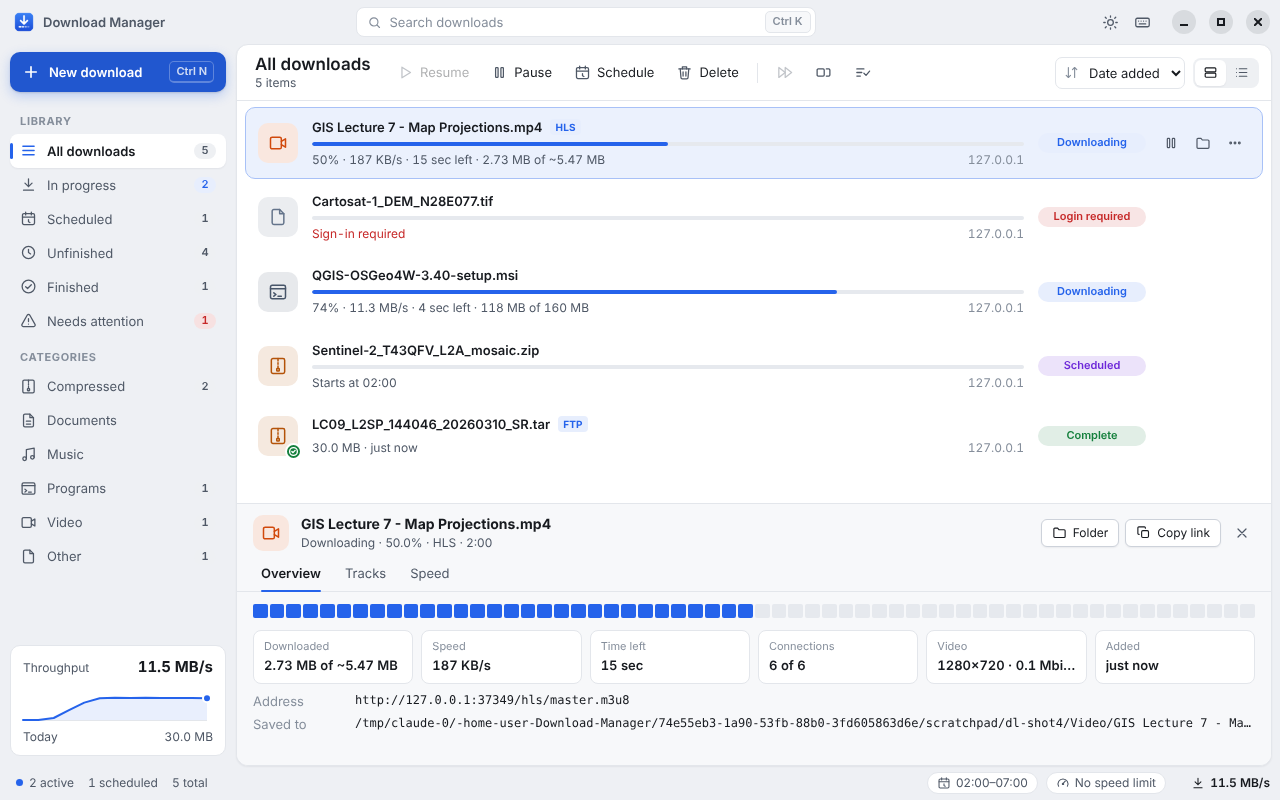
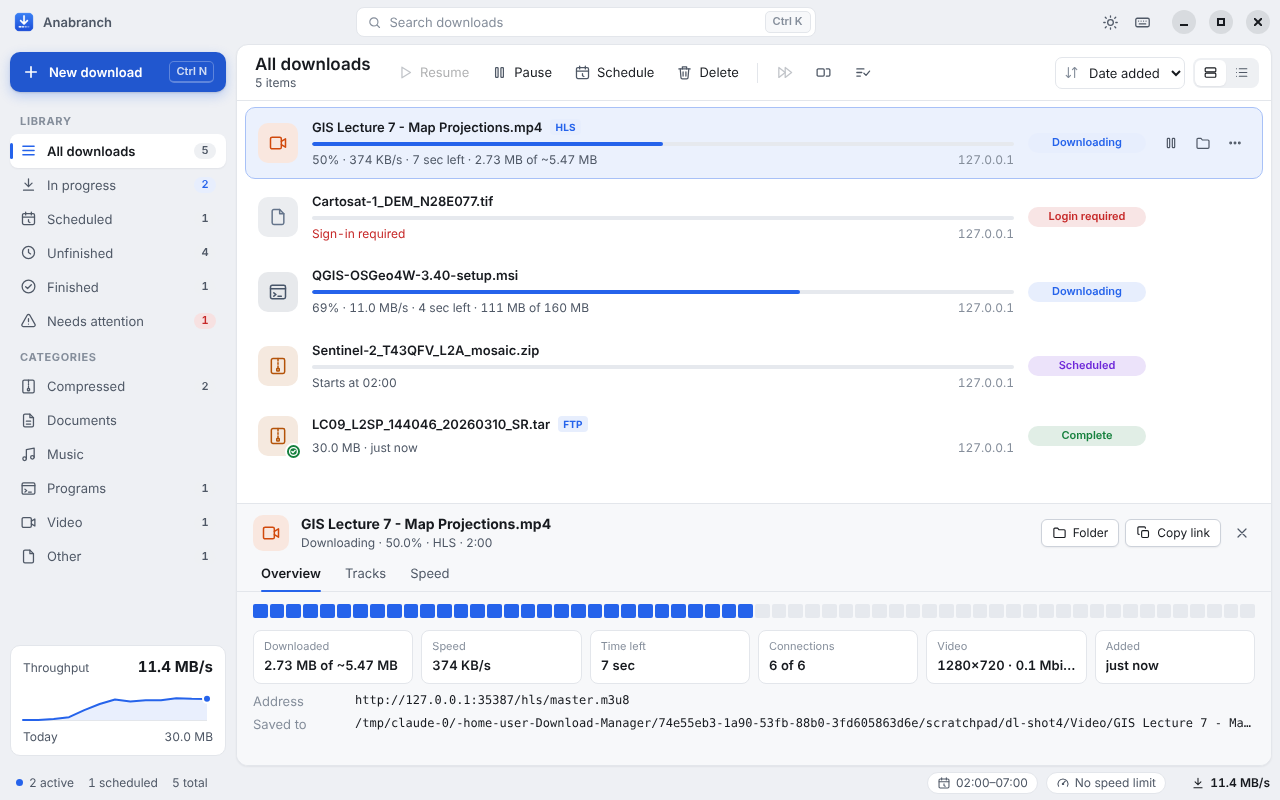
Rename the app to Anabranch
An anabranch is a river channel that leaves the main stream and rejoins
it downstream, which is how the app splits a file across parallel
connections and joins them back into one file.

Display name, window and tray titles, installer artifacts
(Anabranch-Setup / Anabranch-Portable), app ID online.draran.anabranch,
data folder %APPDATA%\Anabranch, MCP server name and bundle
(anabranch-mcp.cjs), the API's ping identity, the browser extension
("Anabranch Browser Connector", add-on ID anabranch@draran.online) and
the CI artifact names. The npm package is private and named
anabranch-download-manager, since an unrelated npm library already uses
"anabranch". README screenshots retaken.

Claude-Session: https://claude.ai/code/session_01CrKxSgUz2TJXLsjafkgDWd

diff --git a/electron/main.js b/electron/main.js
@@ -39,7 +39,7 @@ const ICON = path.join(__dirname, '..', 'build', 'icon.png');
 // Height of the custom title bar; the native window buttons are drawn over it.
 const TITLEBAR_HEIGHT = 44;
 
-// URLs passed on the command line, e.g. `"Download Manager.exe" https://...`.
+// URLs passed on the command line, e.g. `"Anabranch.exe" https://...`.
 const urlArgs = (argv) => argv.filter((a) => /^(https?|ftps?):\/\//i.test(a));
 const userFile = (name) => path.join(app.getPath('userData'), name);
 const hashToken = (token) => crypto.createHash('sha256').update(token).digest('hex');
@@ -226,7 +226,7 @@ function createWindow() {
     height: 760,
     minWidth: 860,
     minHeight: 520,
-    title: 'Download Manager',
+    title: 'Anabranch',
     backgroundColor: titleBarColours(dark).color,
     icon: ICON,
     titleBarStyle: 'hidden',
@@ -270,11 +270,11 @@ function createWindow() {
 function createTray() {
   const size = process.platform === 'win32' ? 16 : 22;
   tray = new Tray(nativeImage.createFromPath(ICON).resize({ width: size, height: size }));
-  tray.setToolTip('Download Manager');
+  tray.setToolTip('Anabranch');
   tray.on('click', showWindow);
   tray.setContextMenu(
     Menu.buildFromTemplate([
-      { label: 'Open Download Manager', click: showWindow },
+      { label: 'Open Anabranch', click: showWindow },
       {
         label: 'Add link from clipboard',
         click: async () => {
@@ -301,7 +301,7 @@ function updateTaskbar() {
   const speed = active.reduce((sum, d) => sum + (d.speed || 0), 0);
   if (!active.length) {
     mainWindow.setProgressBar(-1);
-    tray?.setToolTip('Download Manager');
+    tray?.setToolTip('Anabranch');
     return;
   }
   const known = active.filter((d) => d.totalBytes);
@@ -310,7 +310,7 @@ function updateTaskbar() {
   if (total) mainWindow.setProgressBar(done / total);
   else mainWindow.setProgressBar(2, { mode: 'indeterminate' });
   const mb = (speed / 1048576).toFixed(1);
-  tray?.setToolTip(`Download Manager — ${active.length} active, ${mb} MB/s`);
+  tray?.setToolTip(`Anabranch — ${active.length} active, ${mb} MB/s`);
 }
 
 function send(channel, payload) {
@@ -408,8 +408,8 @@ function registerIpc() {
     ...apiInfo,
     url: apiInfo.port ? `http://127.0.0.1:${apiInfo.port}` : null,
     mcpScript: app.isPackaged
-      ? path.join(process.resourcesPath, 'mcp', 'download-manager-mcp.cjs')
-      : path.join(__dirname, '..', 'dist-mcp', 'download-manager-mcp.cjs'),
+      ? path.join(process.resourcesPath, 'mcp', 'anabranch-mcp.cjs')
+      : path.join(__dirname, '..', 'dist-mcp', 'anabranch-mcp.cjs'),
     executable: process.execPath,
   }));
 }

diff --git a/browser-extension/background.js b/browser-extension/background.js
@@ -1,8 +1,8 @@
-// Download Manager browser integration (Chrome, Edge, Firefox).
+// Anabranch browser integration (Chrome, Edge, Firefox).
 //
 // - Hands file downloads over to the desktop app (with cookies and referrer,
 //   so links that need a browser session still work).
-// - Adds "Download with Download Manager" and "Download all links" menus.
+// - Adds "Download with Anabranch" and "Download all links" menus.
 // - Detects HLS/DASH streams and video files a page loads and lists them in
 //   the toolbar panel.
 //
@@ -63,7 +63,7 @@ async function findApp() {
   for (const port of ports) {
     try {
       const info = await call('/api/ping', { port, timeout: 800 });
-      if (info.app === 'download-manager') {
+      if (info.app === 'anabranch') {
         if (port !== s.port) await ext.storage.local.set({ port });
         return { port, authorised: info.authorised };
       }
@@ -91,7 +91,7 @@ function browserName() {
 // Asks the app for a token; the user approves the request in the app window.
 async function pair() {
   const app = await findApp();
-  if (!app) throw new Error('Download Manager is not running.');
+  if (!app) throw new Error('Anabranch is not running.');
   const { token } = await call('/api/pair', {
     method: 'POST',
     body: { browser: browserName() },
@@ -123,7 +123,7 @@ async function buildItem({ url, referrer, fileName, kind, storeId }) {
 
 async function sendItems(items, { prompt } = {}) {
   const s = await getSettings();
-  if (!s.token) throw new Error('Not connected to Download Manager');
+  if (!s.token) throw new Error('Not connected to Anabranch');
   try {
     if (prompt ?? s.confirm) return await call('/api/prompt', { method: 'POST', body: { items } });
     for (const item of items) await call('/api/downloads', { method: 'POST', body: item });
@@ -222,10 +222,10 @@ async function createMenus() {
   await Promise.resolve(ext.contextMenus.removeAll());
   ext.contextMenus.create({
     id: 'dm-link',
-    title: 'Download with Download Manager',
+    title: 'Download with Anabranch',
     contexts: ['link', 'image', 'video', 'audio'],
   });
-  ext.contextMenus.create({ id: 'dm-all', title: 'Download all links with Download Manager…', contexts: ['page'] });
+  ext.contextMenus.create({ id: 'dm-all', title: 'Download all links with Anabranch…', contexts: ['page'] });
 }
 ext.runtime.onInstalled.addListener(createMenus);
 ext.runtime.onStartup?.addListener(createMenus);

diff --git a/browser-extension/popup.html b/browser-extension/popup.html
@@ -2,25 +2,25 @@
 <html lang="en">
   <head>
     <meta charset="UTF-8" />
-    <title>Download Manager</title>
+    <title>Anabranch</title>
     <link rel="stylesheet" href="popup.css" />
   </head>
   <body>
     <header>
       <img src="icons/icon-32.png" alt="" width="20" height="20" />
-      <h1>Download Manager</h1>
+      <h1>Anabranch</h1>
       <span id="status" class="status">…</span>
     </header>
 
     <section id="offline" hidden>
-      <p>Download Manager is not running. Start the app, then open this panel again.</p>
+      <p>Anabranch is not running. Start the app, then open this panel again.</p>
       <button type="button" id="retry">Check again</button>
     </section>
 
     <section id="unpaired" hidden>
-      <p>Connect this browser to Download Manager. The app asks you to approve the connection.</p>
+      <p>Connect this browser to Anabranch. The app asks you to approve the connection.</p>
       <button type="button" id="pair" class="primary">Connect</button>
-      <p id="pair-note" class="muted" hidden>Waiting for approval in the Download Manager window…</p>
+      <p id="pair-note" class="muted" hidden>Waiting for approval in the Anabranch window…</p>
     </section>
 
     <section id="connected" hidden>
@@ -30,7 +30,7 @@
 
       <details>
         <summary>Settings</summary>
-        <label class="check"><input type="checkbox" id="capture" /> Send downloads of these file types to Download Manager</label>
+        <label class="check"><input type="checkbox" id="capture" /> Send downloads of these file types to Anabranch</label>
         <label class="check"><input type="checkbox" id="confirm" /> Confirm each download in the app first</label>
         <label>File types<textarea id="types" rows="4" spellcheck="false"></textarea></label>
         <label>Minimum size (KB)<input type="number" id="minSizeKB" min="0" /></label>

diff --git a/src/mockApi.js b/src/mockApi.js
@@ -232,7 +232,7 @@ export function createMockApi() {
     setTitleBar: async () => {},
     checkFfmpeg: async () => ({ path: 'ffmpeg', version: 'ffmpeg version 7.1 (preview)' }),
     openExtensionFolder: async () => {},
-    extensionFolder: async (browser) => `C:\\Program Files\\Download Manager\\resources\\browser-extension\\${browser}`,
+    extensionFolder: async (browser) => `C:\\Program Files\\Anabranch\\resources\\browser-extension\\${browser}`,
     chooseFile: async () => 'C:\\ffmpeg\\bin\\ffmpeg.exe',
     removeCompleted: async () => {
       for (let i = downloads.length - 1; i >= 0; i--) if (downloads[i].status === 'completed') downloads.splice(i, 1);
@@ -253,8 +253,8 @@ export function createMockApi() {
       port: 6801,
       token: '3f9c1e0a7b5d42c88e61f0d2a9b7c4e1d5f6a8b9c0d1e2f3',
       url: 'http://127.0.0.1:6801',
-      mcpScript: 'C:\\Program Files\\Download Manager\\resources\\mcp\\download-manager-mcp.cjs',
-      executable: 'C:\\Program Files\\Download Manager\\Download Manager.exe',
+      mcpScript: 'C:\\Program Files\\Anabranch\\resources\\mcp\\anabranch-mcp.cjs',
+      executable: 'C:\\Program Files\\Anabranch\\Anabranch.exe',
     }),
     onUpdate: (fn) => (listeners.update.add(fn), () => listeners.update.delete(fn)),
     onSettings: (fn) => (listeners.settings.add(fn), () => listeners.settings.delete(fn)),

diff --git a/src/components/SettingsDialog.jsx b/src/components/SettingsDialog.jsx
@@ -136,7 +136,7 @@ function BrowserTab() {
   return (
     <div className="tab-panel">
       <p>
-        The browser extension sends downloads, links (right-click → <em>Download with Download Manager</em>) and video
+        The browser extension sends downloads, links (right-click → <em>Download with Anabranch</em>) and video
         streams it detects on a page to this app, together with the browser’s cookies so that signed-in downloads work.
       </p>
       <ol className="steps">
@@ -158,7 +158,7 @@ function BrowserTab() {
           </div>
         </li>
         <li>
-          Click the Download Manager button in the browser toolbar, then <em>Connect</em>, and allow the request here.
+          Click the Anabranch button in the browser toolbar, then <em>Connect</em>, and allow the request here.
         </li>
       </ol>
       <h3 className="subhead">Connected browsers</h3>
@@ -216,7 +216,7 @@ export function SettingsDialog({ settings, onClose, initialTab = 'appearance' })
     ? JSON.stringify(
         {
           mcpServers: {
-            'download-manager': {
+            'anabranch': {
               command: info.executable,
               args: [info.mcpScript],
               env: { ELECTRON_RUN_AS_NODE: '1' },

diff --git a/electron/api-server.js b/electron/api-server.js
@@ -91,13 +91,13 @@ function createApiServer(manager, { token, isPairedToken = () => false, onPair, 
 
     try {
       if (req.method === 'GET' && url.pathname === '/api/ping') {
-        return send(200, { app: 'download-manager', version, authorised: tokenValid(req) });
+        return send(200, { app: 'anabranch', version, authorised: tokenValid(req) });
       }
       if (req.method === 'POST' && url.pathname === '/api/pair') {
         if (!onPair) return send(404, { error: 'Pairing is not available' });
         const body = await readBody(req);
         const issued = await onPair({ origin: origin || null, browser: String(body.browser || 'Browser').slice(0, 60) });
-        return issued ? send(200, { token: issued }) : send(403, { error: 'The connection was declined in Download Manager' });
+        return issued ? send(200, { token: issued }) : send(403, { error: 'The connection was declined in Anabranch' });
       }
 
       if (!tokenValid(req)) return send(401, { error: 'Missing or invalid API token' });

diff --git a/src/components/PairDialog.jsx b/src/components/PairDialog.jsx
@@ -23,11 +23,11 @@ export function PairDialog({ request, onDone }) {
         <Icon name="puzzle" size={32} strokeWidth={1.5} />
         <div>
           <p>
-            <strong>{request.browser}</strong> asks to send downloads to Download Manager.
+            <strong>{request.browser}</strong> asks to send downloads to Anabranch.
           </p>
           {request.origin && <p className="muted mono small">{request.origin}</p>}
           <p className="muted">
-            Allow this only if you just clicked <em>Connect</em> in the Download Manager browser extension. You can
+            Allow this only if you just clicked <em>Connect</em> in the Anabranch browser extension. You can
             disconnect it later in Options → Browser.
           </p>
         </div>

diff --git a/src/components/TitleBar.jsx b/src/components/TitleBar.jsx
@@ -11,7 +11,7 @@ export function TitleBar({ platform, query, onQuery, onPalette, onShortcuts, the
     <header className={`titlebar platform-${platform}`}>
       <div className="titlebar-brand">
         <img src={appIcon} alt="" width="20" height="20" />
-        <span>Download Manager</span>
+        <span>Anabranch</span>
       </div>
       <label className="titlebar-search no-drag">
         <Icon name="search" size={15} />

diff --git a/src/styles.css b/src/styles.css
@@ -1,5 +1,5 @@
 /* ==========================================================================
-   Download Manager — design tokens
+   Anabranch — design tokens
    Light and dark are separate token sets (not an automatic inversion).
    --accent is set at runtime from the chosen accent (see theme.js).
    ========================================================================== */

diff --git a/electron/engine/DownloadManager.js b/electron/engine/DownloadManager.js
@@ -17,7 +17,7 @@ const { categorise } = require('./utils');
 
 const USER_AGENT =
   'Mozilla/5.0 (Windows NT 10.0; Win64; x64) AppleWebKit/537.36 (KHTML, like Gecko) ' +
-  'Chrome/140.0 Safari/537.36 DownloadManager/1.1';
+  'Chrome/140.0 Safari/537.36 Anabranch/1.1';
 
 const DEFAULT_SETTINGS = {
   downloadDir: path.join(os.homedir(), 'Downloads'),

diff --git a/src/components/PowerDialog.jsx b/src/components/PowerDialog.jsx
@@ -4,7 +4,7 @@ import { Icon } from '../icons.jsx';
 import { Modal } from './Modal.jsx';
 
 const VERB = {
-  quit: 'Download Manager will close',
+  quit: 'Anabranch will close',
   sleep: 'The computer will go to sleep',
   shutdown: 'The computer will shut down',
 };

diff --git a/index.html b/index.html
@@ -3,7 +3,7 @@
   <head>
     <meta charset="UTF-8" />
     <meta name="viewport" content="width=device-width, initial-scale=1.0" />
-    <title>Download Manager</title>
+    <title>Anabranch</title>
   </head>
   <body>
     <div id="root"></div>
